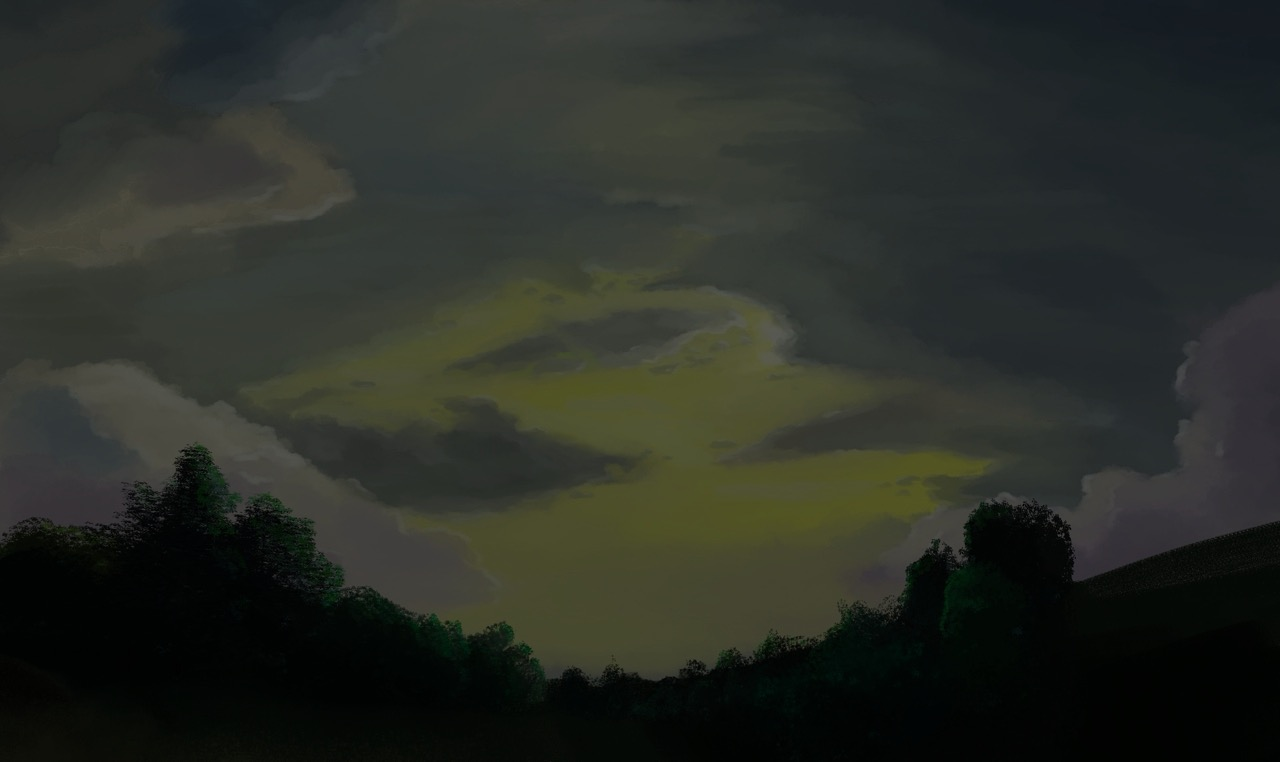
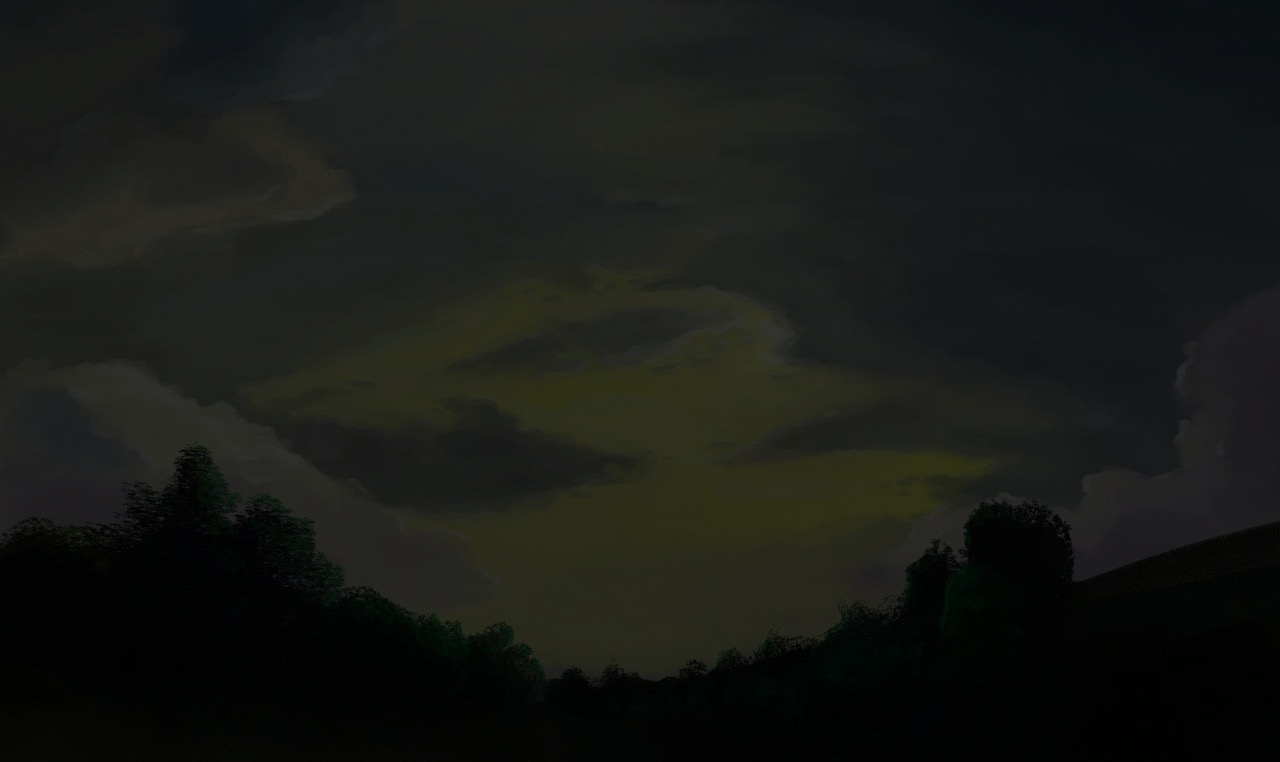
more words everywhere

diff --git a/public/index.html b/public/index.html
@@ -38,8 +38,8 @@
                         <script>updateDiscord();</script>
                     </section>
                     <section>
-                        <p style="float: right;"><small><a href="/blog/index.html">all posts<img class="icon" src="/assets/icons/arrow-r.png"></a></small></p>
-                        <p><img class="icon inline-left" src="/assets/icons/speech.png">blog</p>
+                        <p style="float: right;"><small><a href="/blog/index.html">blog<img class="icon" src="/assets/icons/arrow-r.png"></a></small></p>
+                        <p><img class="icon inline-left" src="/assets/icons/speech.png">latest posts</p>
                         <hr>
                         <a href="/blog/0005.html"><p><small><img class="icon inline-left" src="/assets/icons/pin.png">March 6, 2026</small><br>Discord, online privacy, and who should be protecting the kids</p></a>
                         <hr>
@@ -63,11 +63,13 @@
                         <img src="/assets/streetlamp.png" style="position: absolute; bottom: -24px; left: 0; width: 100%; z-index: 0;">
                         <div style="position: relative; z-index: 1;">
                             <h3><span id="funTitle">not actually a party</span></h3>
-                            <p><span id="greeting">hi</span>, i'm <span class="important">aivi</span> <small>she/it</small>, a self-taught <span class="important">web dev</span> & <a href="/gallery.html">furry artist</a>. i pride myself in creating things with my own two paws, and i built this website to share it all. <span id="hitcount" class="success num"><span class="danger">-----</span></span> humans, robots, and other beings have passed through here.</p>
+                            <p><span id="greeting">hi</span>, i'm <span class="important">aivi</span> <small>she/it</small>, a self-taught <span class="important">web dev</span> & <a href="/gallery.html">furry artist</a>. i pride myself in creating things with my own two paws, and i despise commercial social media platforms, so i built this website to share my work with the world on my <span class="important">own terms</span>.</p>
                             <br>
-                            <p>even though it's <span class="important num">2</span> years, <span class="important num">4</span> domains, <span class="important num">6</span> redesigns, and probably over a thousand commits old, this site is, and will always be, a work in progress.</p>
+                            <p>most of everything here was inspired, at least in part, by other people's creations. i encourage you to <a href="https://github.com/poisonaivi/aivi.party" target="_blank">view and adapt my code</a> or otherwise take <span class="important">inspiration</span> from this site. You can also use whatever you'd like from my <a href="/assets.html">asset library</a>.</p>
                             <br>
-                            <p>most of the things here were inspired, at least in part, by other people. i encourage you to <span class="important">view-source</span>, <span class="important">adapt code</span>, or <span class="important">take inspiration</span> from this site, although you should understand what you paste.</p>
+                            <p>even though this site is <span class="important num">2</span> years, <span class="important num">4</span> domains, <span class="important num">6</span> redesigns, and probably over a thousand commits old, it still is, and will always be, a work in progress.</p>
+                            <br>
+                            <p><span id="hitcount" class="success num"><span class="danger">-----</span></span></u> humans, robots, and other beings have passed through here.</p>
                             <br>
                             <p><small>if anything looks broken, try hard-reloading with (Ctrl/ <img class="icon" src="/assets/icons/key-command.png"> / <img class="icon" src="/assets/icons/key-option.png"> ) +  Shift + R</small></p>
                             <hr>
@@ -117,7 +119,7 @@
                 <td class="primaryColumn" style="height: inherit;">
                     <section style="box-sizing: border-box; min-height: 70px; height: calc(100% - var(--border-spacing))">
                         <table style="width: 100%; text-align: center;">
-                            <td style="width: 25%"><a href="mailto:[email redacted]"><img class="icon" src="/assets/icons/mail.png"><br>e-mail</a>&nbsp;<small><img class="icon inline-left" src="/assets/icons/lock.png"><a href="/aivi-pub-key-904DFA58.txt" target="_blank">PGP</a></small></td>
+                            <td style="width: 25%"><a href="mailto:[email redacted]"><img class="icon" src="/assets/icons/mail.png"><br>e-mail</a>&nbsp;<small><img class="icon inline-left" src="/assets/icons/key.png"><a href="/aivi-pub-key-904DFA58.txt" target="_blank">PGP</a></small></td>
                             <td style="width: 25%"><a href="https://bsky.app/profile/aivi.party" target="_blank"><img class="icon" src="/assets/logos/bluesky.png"><br>Bluesky</a></td>
                             <td style="width: 25%"><a href="https://github.com/poisonaivi" target="_blank"><img class="icon" src="/assets/logos/github.png"><br>GitHub</a></td>
                             <td style="width: 25%"><a href="/guestbook.html"><img class="icon" src="/assets/icons/book.png"><br><img class="icon inline-left" src="/assets/icons/arrow-f.png" style="animation: shake 1s steps(1) infinite;">guestbook<img class="icon inline-right" src="/assets/icons/arrow-b.png" style="animation: shake 1s steps(1) infinite; animation-delay: 500ms;"></a></td>
@@ -130,8 +132,8 @@
             <tr>
                 <td class="primaryColumn">
                     <section style="overflow: hidden;">
-                        <p style="float: right;"><small>for something more permanent, sign my <a href="/guestbook.html">guestbook</a></small></p>
-                        <p><img class="icon inline-left" src="/assets/icons/chat.png">chatbox</p>
+                        <p style="float: right;"><small>for something more permanent, sign my <a href="/guestbook.html">guestbook<img class="icon" src="/assets/icons/arrow-r.png"></a></small></p>
+                        <p><img class="icon inline-left" src="/assets/icons/chat.png">chat</p>
                         <iframe src="https://www3.cbox.ws/box/?boxid=3545093&boxtag=rRmvwj" style="width: calc(100% + 22px); height: 350px; margin: 0 0 -6px -10px; mask-image: linear-gradient(0deg, #fff 85%, #0000 100%);"></iframe>	
                     </section>
                     <section style="padding-bottom: 0; overflow: hidden;">
@@ -170,11 +172,12 @@
                 </td>
                 <td class="secondaryColumn">
                     <section style="aspect-ratio: 0.6; background-image: url(https://cdn.bsky.app/img/feed_fullsize/plain/did:plc:ouvu3umdjiwzywo53srxspur/bafkreiddvornqznybvetqpdeljpzc3t3tanhnys6p2ndek4xhkiftugvwi@jpeg); background-position: 50%; background-size: cover; overflow: hidden;">
-                        <p style="float: right;"><small><a href="/gallery.html">see more<img class="icon" src="/assets/icons/arrow-r.png"></a></small></p>
+                        <p style="float: right;"><small><a href="/gallery.html">gallery<img class="icon" src="/assets/icons/arrow-r.png"></a></small></p>
                         <div style="position: absolute; top: 0; left: 0; height: 100%; width: 100%; background-image: linear-gradient(#000a, #0002 20%);"></div>                        
                         <p><img class="icon inline-left" src="/assets/icons/image.png">latest artwork</p>
                     </section>
                     <section>
+                        <p style="float: right;"><small><a href="/assets.html">assets<img class="icon" src="/assets/icons/arrow-r.png"></a></small></p>
                         <p><img class="icon inline-left" src="/assets/icons/link.png">link my button!</p>
                         <hr>
                         <table style="width: 100%; margin: 6px 0 -6px;">

diff --git a/public/elements/accMenu.html b/public/elements/accMenu.html
@@ -7,19 +7,6 @@
         descent-override: 40%;
     }
 
-    /* @font-face {
-        font-family: "acc-sansserif";
-        src: url(/fonts/Exo-Variable.ttf) format("truetype");
-        size-adjust: 90%;
-        ascent-override: 106%;
-    } */
-
-    /* @font-face {
-        font-family: "acc-serif";
-        src: url(/fonts/MicaValo.ttf) format("truetype");
-        size-adjust: 92%;
-    } */
-
     @font-face {
         font-family: "acc-monospace";
         src: url(/fonts/UbuntuMono-Regular.ttf) format("truetype");

diff --git a/public/assets.html b/public/assets.html
@@ -384,7 +384,6 @@
             </td>
         </tr>
     </table>
-    <img style="height: 180px; border: solid 1px gray;" src="assets/aivi-square-256.gif"><span>aivi-square-256</span><br>
     <br>
     <small>Brand assets don't have any trademark restrictions.</small>
     <hr>
@@ -393,6 +392,12 @@
     <img src="assets/badges/aivi-party-88x31-2.gif">
     <img src="assets/badges/aivi-party-88x31-3.gif">
     <img src="assets/badges/aivi-party-88x31-4.gif">
+    <br>
+    <br>
+    <small>Hotlinking is encouraged when linking to my site.</small>
+    <hr>
+    <h2>ads</h2>
+    <img style="height: 180px; border: solid 1px gray;" src="assets/aivi-square-256.gif"><span>aivi-square-256</span><br>
     <br>
     <small>Hotlinking is encouraged when linking to my site.</small>
 </body>

diff --git a/public/commissions.html b/public/commissions.html
@@ -19,11 +19,11 @@
                         <p>commission status:</p>
                         <h2 class="success">open!</h2>
                     </section>
-                    <section class="important">
-                        <h3 class="important">how to start a commission</h3>
+                    <section>
+                        <p class="success"><img class="icon inline-left" src="/assets/icons/info.png">how to start a commission</p>
                         <hr>
                         <details open>
-                            <summary class="success">as a first-time client</summary>
+                            <summary class="important">as a first-time client</summary>
                             <br>
                             <p>DM <a href="https://bsky.app/profile/aivi.party" target="_blank">@aivi.party</a> on Bluesky.</p>
                             <br>

diff --git a/public/gallery.html b/public/gallery.html
@@ -12,12 +12,12 @@
     <div id="accessibility" hidden><script defer src="/elements/accScript.js"></script></div>
     <main>
         <header id="header"><script defer src="/elements/headerScript.js"></script><noscript><section class="danger"><h3 class="danger"><img class="icon inline-left" src="/assets/icons/error.png">JavaScript disabled</h3><p>congrats, you tripped the noscript element! this site isn't gonna steal your data, but it relies on scripts to display navigation elements and fetch external content.</p><br><p>consider <a href="https://javascript.aivi.party/" target="_blank">enabling JavaScript</a> or whitelisting this site.</p></section></noscript></header>
-        <section style="background-image: url(/assets/highway-clouds-nat-only.jpeg); background-size: cover; background-position: 0 80%;">
+        <section class="important" style="background-image: url(/assets/highway-clouds-nat-only.jpeg); background-size: cover; background-position: 0 80%;">
             <h3><img class="icon inline-left" src="/assets/icons/pencil.png">art by @poisonaivi</h3>
             <p>a gallery of fur and eraser bits. poisonaivi is the name i use to sign my art</p>
             <br>
             <p>you can check out my <a class="button" href="/commissions.html"><img class="icon inline-left" src="/assets/icons/heart.png">commissions</a> or follow my work on:</p>
-            <hr>
+            <br>
             <table style="width: 100%; text-align: center;">
                 <td style="width: 33%"><a href="https://bsky.app/profile/aivi.party" target="_blank"><img class="icon" src="/assets/logos/bluesky.png"><br>Bluesky</a></td>
                 <td style="width: 33%"><a href="https://www.deviantart.com/am3thystx" target="_blank"><img class="icon" src="/assets/logos/deviantart.png"><br>deviantART</a></td>

diff --git a/public/main.css b/public/main.css
@@ -79,9 +79,9 @@ main {
     margin: 0 auto;
 }
 main {
-    mask: linear-gradient(0deg, #aaaa 50%, #ffff 50%) 0 0 / 256px 2px, linear-gradient(90deg, #eeee 50%, #ffff 50%) 0 0 / 3px 256px;
+    mask: linear-gradient(0deg, #bbbb 50%, #ffff 50%) 0 0 / 256px 2px, linear-gradient(90deg, #eeee 50%, #ffff 50%) 0 0 / 3px 256px;
     mask-composite: intersect;
-    filter: brightness(1.4) saturate(1.25);
+    filter: brightness(1.3) saturate(1.2);
 }
 h1, h2, h3, h4, h5, h6 {
     margin: 0;

diff --git a/public/about.html b/public/about.html
@@ -23,7 +23,7 @@
                             <br>
                             <p>on the internet, i go by <span class="important">aivi</span> or <span class="important">poisonaivi</span>, but my friends call me <a href="https://en.wikipedia.org/wiki/Amethyst" target="_blank">Amethyst</a>. i like to <a href="/gallery.html">draw</a>, <a href="/projects.html">code, and design</a> silly creatures, web-things, and aesthetic objects just for the sake of it. i'm also a furry, black belt, pianist, and lockpicker. currently, i'm trying to get more into infosec and pentesting.</p>
                             <br>
-                            <p>if you wanna chat or add me, take a look at <a class="button" href="/contact.html"><img class="icon inline-left" src="/assets/icons/mail.png">contact</a></p>
+                            <p>if you wanna chat, see <a class="button" href="/contact.html"><img class="icon inline-left" src="/assets/icons/mail.png">contact</a></p>
                         </div>
                     </section>
                     <section>
@@ -50,6 +50,7 @@
                             <img class="icon" src="/assets/icons/gender-female.png">
                             <img class="icon" src="/assets/icons/gender.png">
                             <img class="icon" src="/assets/icons/furry.png">
+                            <img class="icon" src="/assets/icons/lock.png">
                             <img class="icon" src="/assets/icons/hand-peace.png">
                             <img class="icon" src="/assets/icons/hand-vulcan.png">
                             <br>

diff --git a/public/contact.html b/public/contact.html
@@ -17,9 +17,8 @@
                 <td class="primaryColumn">
                     <section class="important">
                         <h3><img class="icon inline-left" src="/assets/icons/person-add.png">get in touch</h3>
-                        <p>i'm open to talk, and good news, you've got options.</p>
                         <hr>
-                        <p><a href="mailto:[email redacted]" target="_blank"><img class="icon inline-left" src="/assets/icons/mail.png">e-mail</a> <small>[email redacted] <img class="icon inline-left" src="/assets/icons/lock.png">pgp key: <a href="/aivi-pub-key-904DFA58.txt" target="_blank">.txt</a> <a href="/aivi-pub-key-904DFA58.asc" target="_blank">.asc</a> …904D FA58</small></p>
+                        <p><a href="mailto:[email redacted]" target="_blank"><img class="icon inline-left" src="/assets/icons/mail.png">e-mail</a> <small>[email redacted] <img class="icon inline-left" src="/assets/icons/key.png">PGP public key: <a href="/aivi-pub-key-904DFA58.txt" target="_blank">.txt</a> <a href="/aivi-pub-key-904DFA58.asc" target="_blank">.asc</a> …904D FA58</small></p>
                         <br>
                         <p><a href="https://discord.com/users/802178124342493224" target="_blank"><img class="icon inline-left" src="/assets/logos/discord.png">Discord</a> <small>mutual server required</small></p>
                         <br>

diff --git a/public/elements/changelog.html b/public/elements/changelog.html
@@ -1,4 +1,5 @@
 <table class="changelog" style="width: 100%;">
+    <tr><td class="important num">6.26.4.17</td><td><p>Improved index intro and added more links. Some layout improvements.</p></td></tr>
     <tr><td class="important num">6.26.4.13</td><td><p>Added bitcoin address to footer.</p></td></tr>
     <tr><td class="important num">6.26.4.12</td><td><p>Fixed PGP key links. Improved footer layout and legibility. Joined index header with welcome section using perforated line design.</p></td></tr>
     <tr><td class="important num">6.26.4.9</td><td><p>Replaced about-me image. Added banner to gallery.html.</p></td></tr>